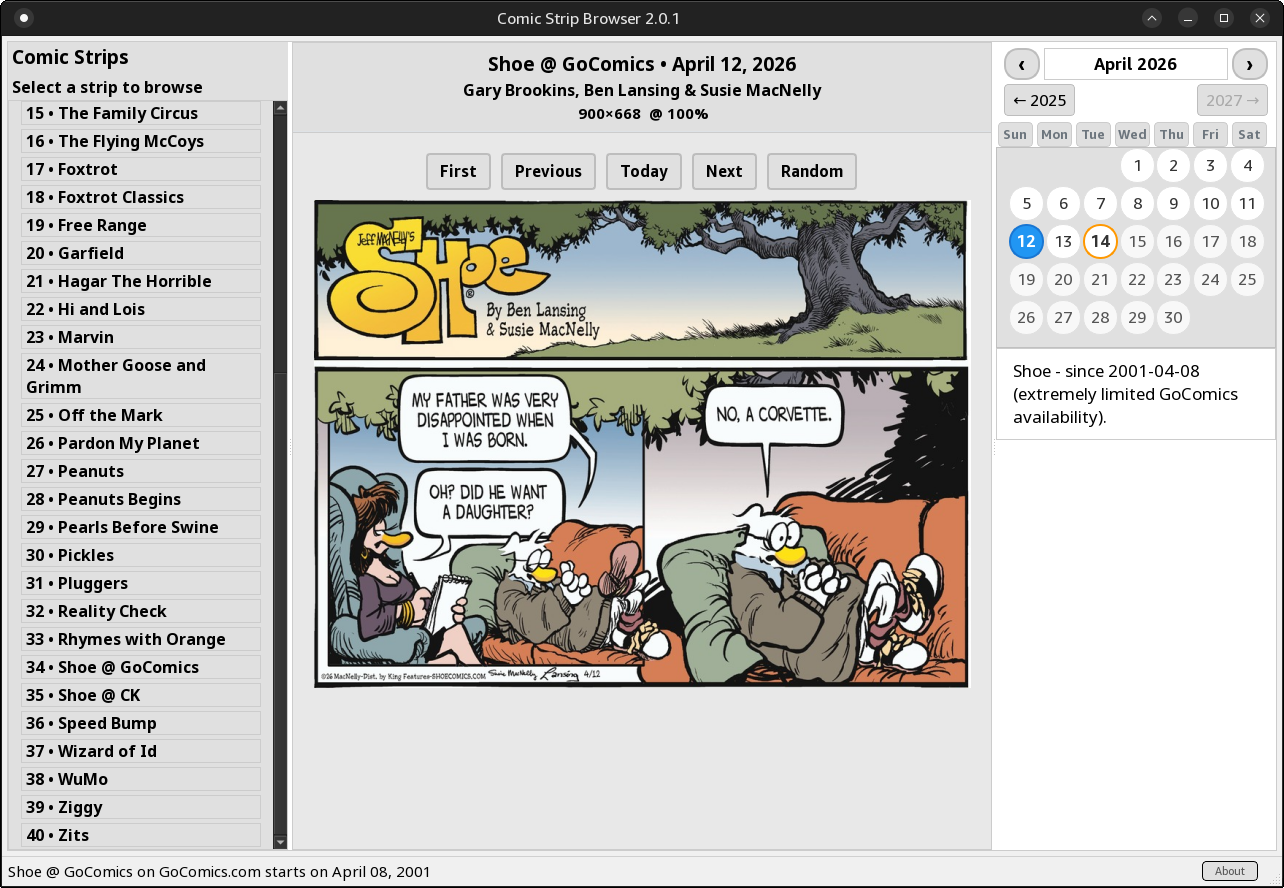
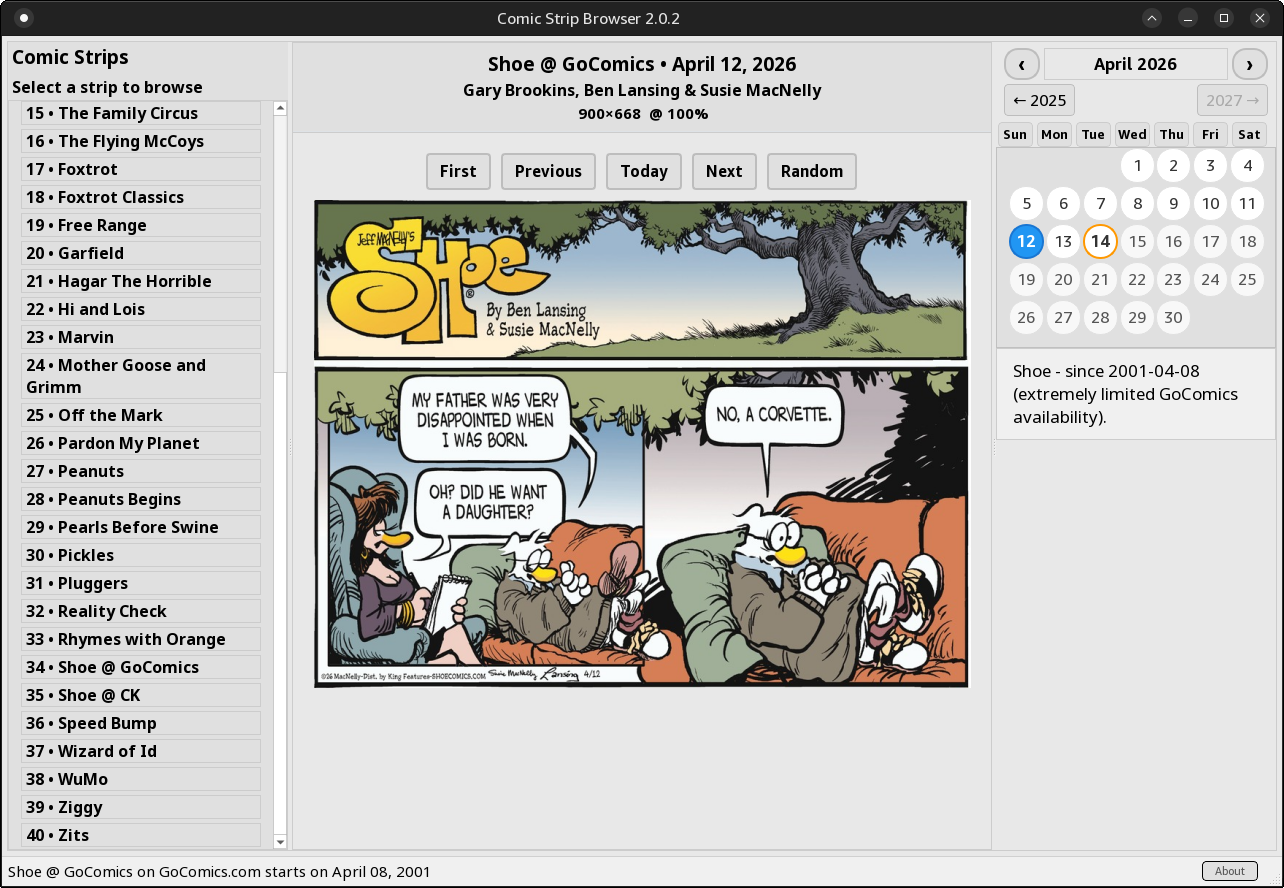
Small adjustments of background colors.

Changed region(s): [[0.1869, 0.1216, 0.2492, 0.9426]]

diff --git a/version.py b/version.py
@@ -5,20 +5,25 @@ This is the single source of truth for version information.
 Update this file when releasing a new version.
 """
 
-__version__ = "2.0.1"
-__version_info__ = (2, 0, 1)
+__version__ = "2.0.2"
+__version_info__ = (2, 0, 2)
 
 # Release information
 RELEASE_DATE = "2026-04-14"
 RELEASE_NAME = "Comic Strip Browser"
 
 # Package information for .deb
-DEB_VERSION = "2.0.1-1"
+DEB_VERSION = "2.0.2-1"
 DEB_MAINTAINER = "Homo Ludditus <DerLudditus@gmail.com>"
 DEB_HOMEPAGE = "https://github.com/DerLudditus/comic-strip-browser"
 
 # Changelog entry (most recent first)
-CHANGELOG = """comic-strip-browser (2.0.1-1) stable; urgency=medium
+CHANGELOG = """comic-strip-browser (2.0.2-1) stable; urgency=medium
+  * Small adjustments of background colors.  
+
+ -- Homo Ludditus <DerLudditus@gmail.com>  Tue, 14 Apr 2026 21:30:00 +0300
+ 
+comic-strip-browser (2.0.1-1) stable; urgency=medium
   * Force light backgrounds even on dark-themed systems.  
 
  -- Homo Ludditus <DerLudditus@gmail.com>  Tue, 14 Apr 2026 20:20:00 +0300

diff --git a/ui/calendar_widget.py b/ui/calendar_widget.py
@@ -400,7 +400,7 @@ class CalendarWidget(QWidget):
             header_label.setFont(header_font)
             header_label.setStyleSheet("""
                 QLabel {
-                    color: #6c757d;
+                    color: #000000;
                     background-color: #e0e0e0;
                     border-radius: 4px;
                 }
@@ -419,6 +419,7 @@ class CalendarWidget(QWidget):
         self.info_label.setStyleSheet("""
             QLabel {
                 color: #000000;
+                background-color: #f0f0f0;
                 padding: 6px 12px;
             }
         """)

diff --git a/ui/main_window.py b/ui/main_window.py
@@ -179,10 +179,10 @@ class MainWindow(QMainWindow):
         # Set consistent style across platforms
         self.setStyleSheet("""
             QMainWindow {
-                background-color: #f0f0f0;
+                background-color: #e8e8e8;
             }
             QFrame {
-                background-color: white;
+                background-color: transparent;
                 border: 1px solid #cccccc;
             }
             QToolBar {
